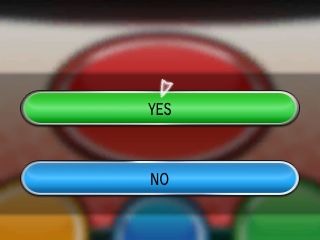
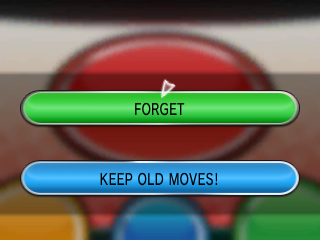
Added even more screenshots.
- Use item in battle
- Learning new move
- TM learning
- Daycare

Changed region(s): [[0.3125, 0.7, 0.6875, 0.7875], [0.4062, 0.3208, 0.5938, 0.4958]]

diff --git a/data/x/data.js b/data/x/data.js
@@ -206,18 +206,42 @@ var coords = {
 	},
 	"TM item": {
 		"id": "h",
-		"Use":              { "id": "u", "coords": [189, 149,   319, 179], "ref": "   " },
-		"Free space":       { "id": "f", "coords": [189, 180,   319, 209], "ref": "   " },
+		"Use":              { "id": "u", "coords": [189, 149,   319, 179], "ref": "oH" },
 		"Cancel":           { "id": "x", "coords": [189, 210,   319, 239], "ref": "ob"  },
 	},
+	"TM Pokémon": {
+		"id": "H",
+		"Pokémon 1":        { "id": "1", "coords": [  0,   0,   158,  59], "ref": "oC"  },
+		"Pokémon 2":        { "id": "2", "coords": [159,   9,   319,  68], "ref": "oC"  },
+		"Pokémon 3":        { "id": "3", "coords": [  0,  60,   158, 118], "ref": "oC"  },
+		"Pokémon 4":        { "id": "4", "coords": [159,  69,   319, 128], "ref": "oC"  },
+		"Pokémon 5":        { "id": "5", "coords": [  0, 119,   158, 178], "ref": "oC"  },
+		"Pokémon 6":        { "id": "6", "coords": [159, 129,   319, 188], "ref": "oC"  },
+		"Cancel":           { "id": "x", "coords": [289, 209,   319, 239], "ref": "END" },
+	},
 	"TM teach": {
+		"id": "C",
+		"Yes":              { "id": "y", "coords": [239,  59,   319,  89], "ref": "oL"  },
+		"No":               { "id": "x", "coords": [239,  90,   319, 119], "ref": "END" },
+	},
+	"TM delete": {
+		"id": "L",
+		"Yes":              { "id": "y", "coords": [239,  59,   319,  89], "ref": "ol"  },
+		"No":               { "id": "x", "coords": [239,  90,   319, 119], "ref": "om"  },
+	},
+	"TM move": {
 		"id": "l",
 		"Move 1":           { "id": "1", "coords": [  9,  19,   179,  59], "ref": "   " },
 		"Move 2":           { "id": "2", "coords": [  9,  60,   179, 100], "ref": "   " },
 		"Move 3":           { "id": "3", "coords": [  9, 101,   179, 139], "ref": "   " },
 		"Move 4":           { "id": "4", "coords": [  9, 140,   179, 179], "ref": "   " },
-		"Forget":           { "id": "f", "coords": [  9, 199,   179, 239], "ref": "   " },
+		"Forget":           { "id": "f", "coords": [  9, 199,   179, 239], "ref": "END" },
 		"Cancel":           { "id": "x", "coords": [289, 209,   319, 239], "ref": "END" },
+	},
+	"TM give up": {
+		"id": "m",
+		"Yes":              { "id": "y", "coords": [239,  59,   319,  89], "ref": "END" },
+		"No":               { "id": "x", "coords": [239,  90,   319, 119], "ref": "oL"  },
 	},
 	"Trash count": {
 		"id": "t",
@@ -449,7 +473,7 @@ var coords = {
 		"Delete":           { "id": "z", "coords": [150, 200,   219, 229], "ref": "   " },
 		"OK":               { "id": "y", "coords": [220, 200,   289, 229], "ref": "   " },
 	},
-	"Daycare Store": {
+	"Daycare store": {
 		"id": "d",
 		"Store":            { "id": "s", "coords": [189, 149,   319, 179], "ref": "   " },
 		"Summary":          { "id": "w", "coords": [189, 180,   319, 209], "ref": "   " },
